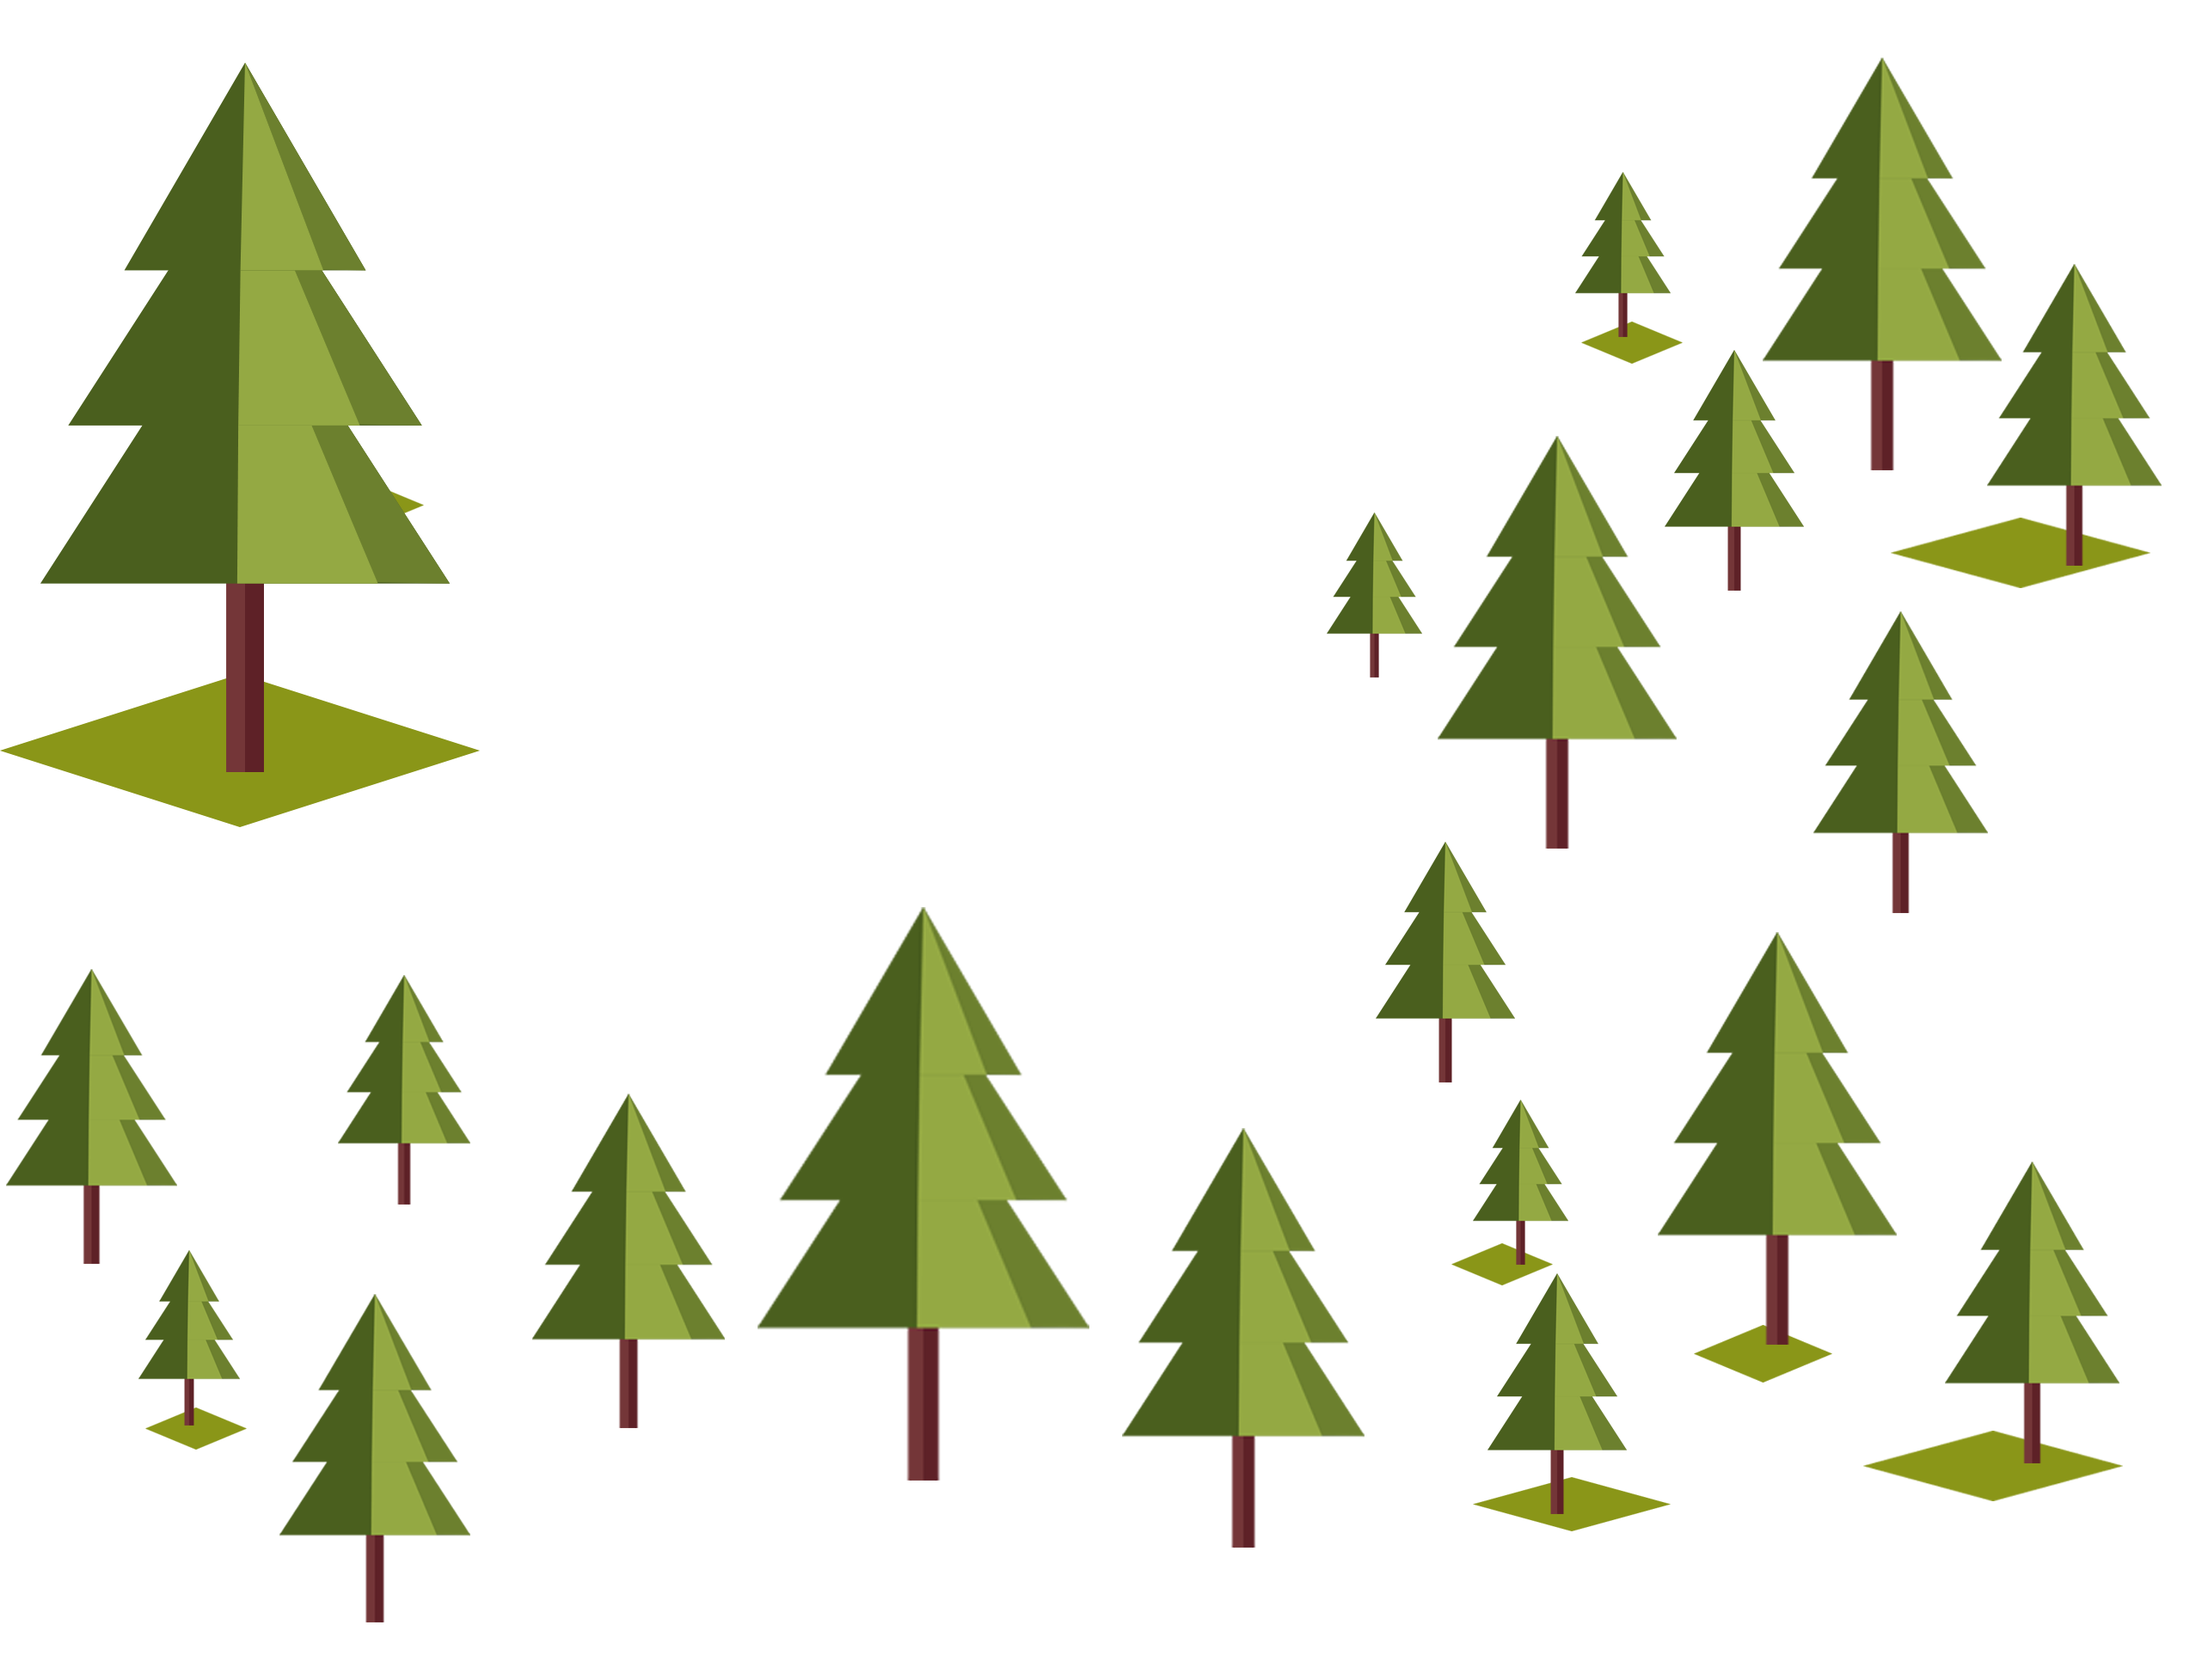
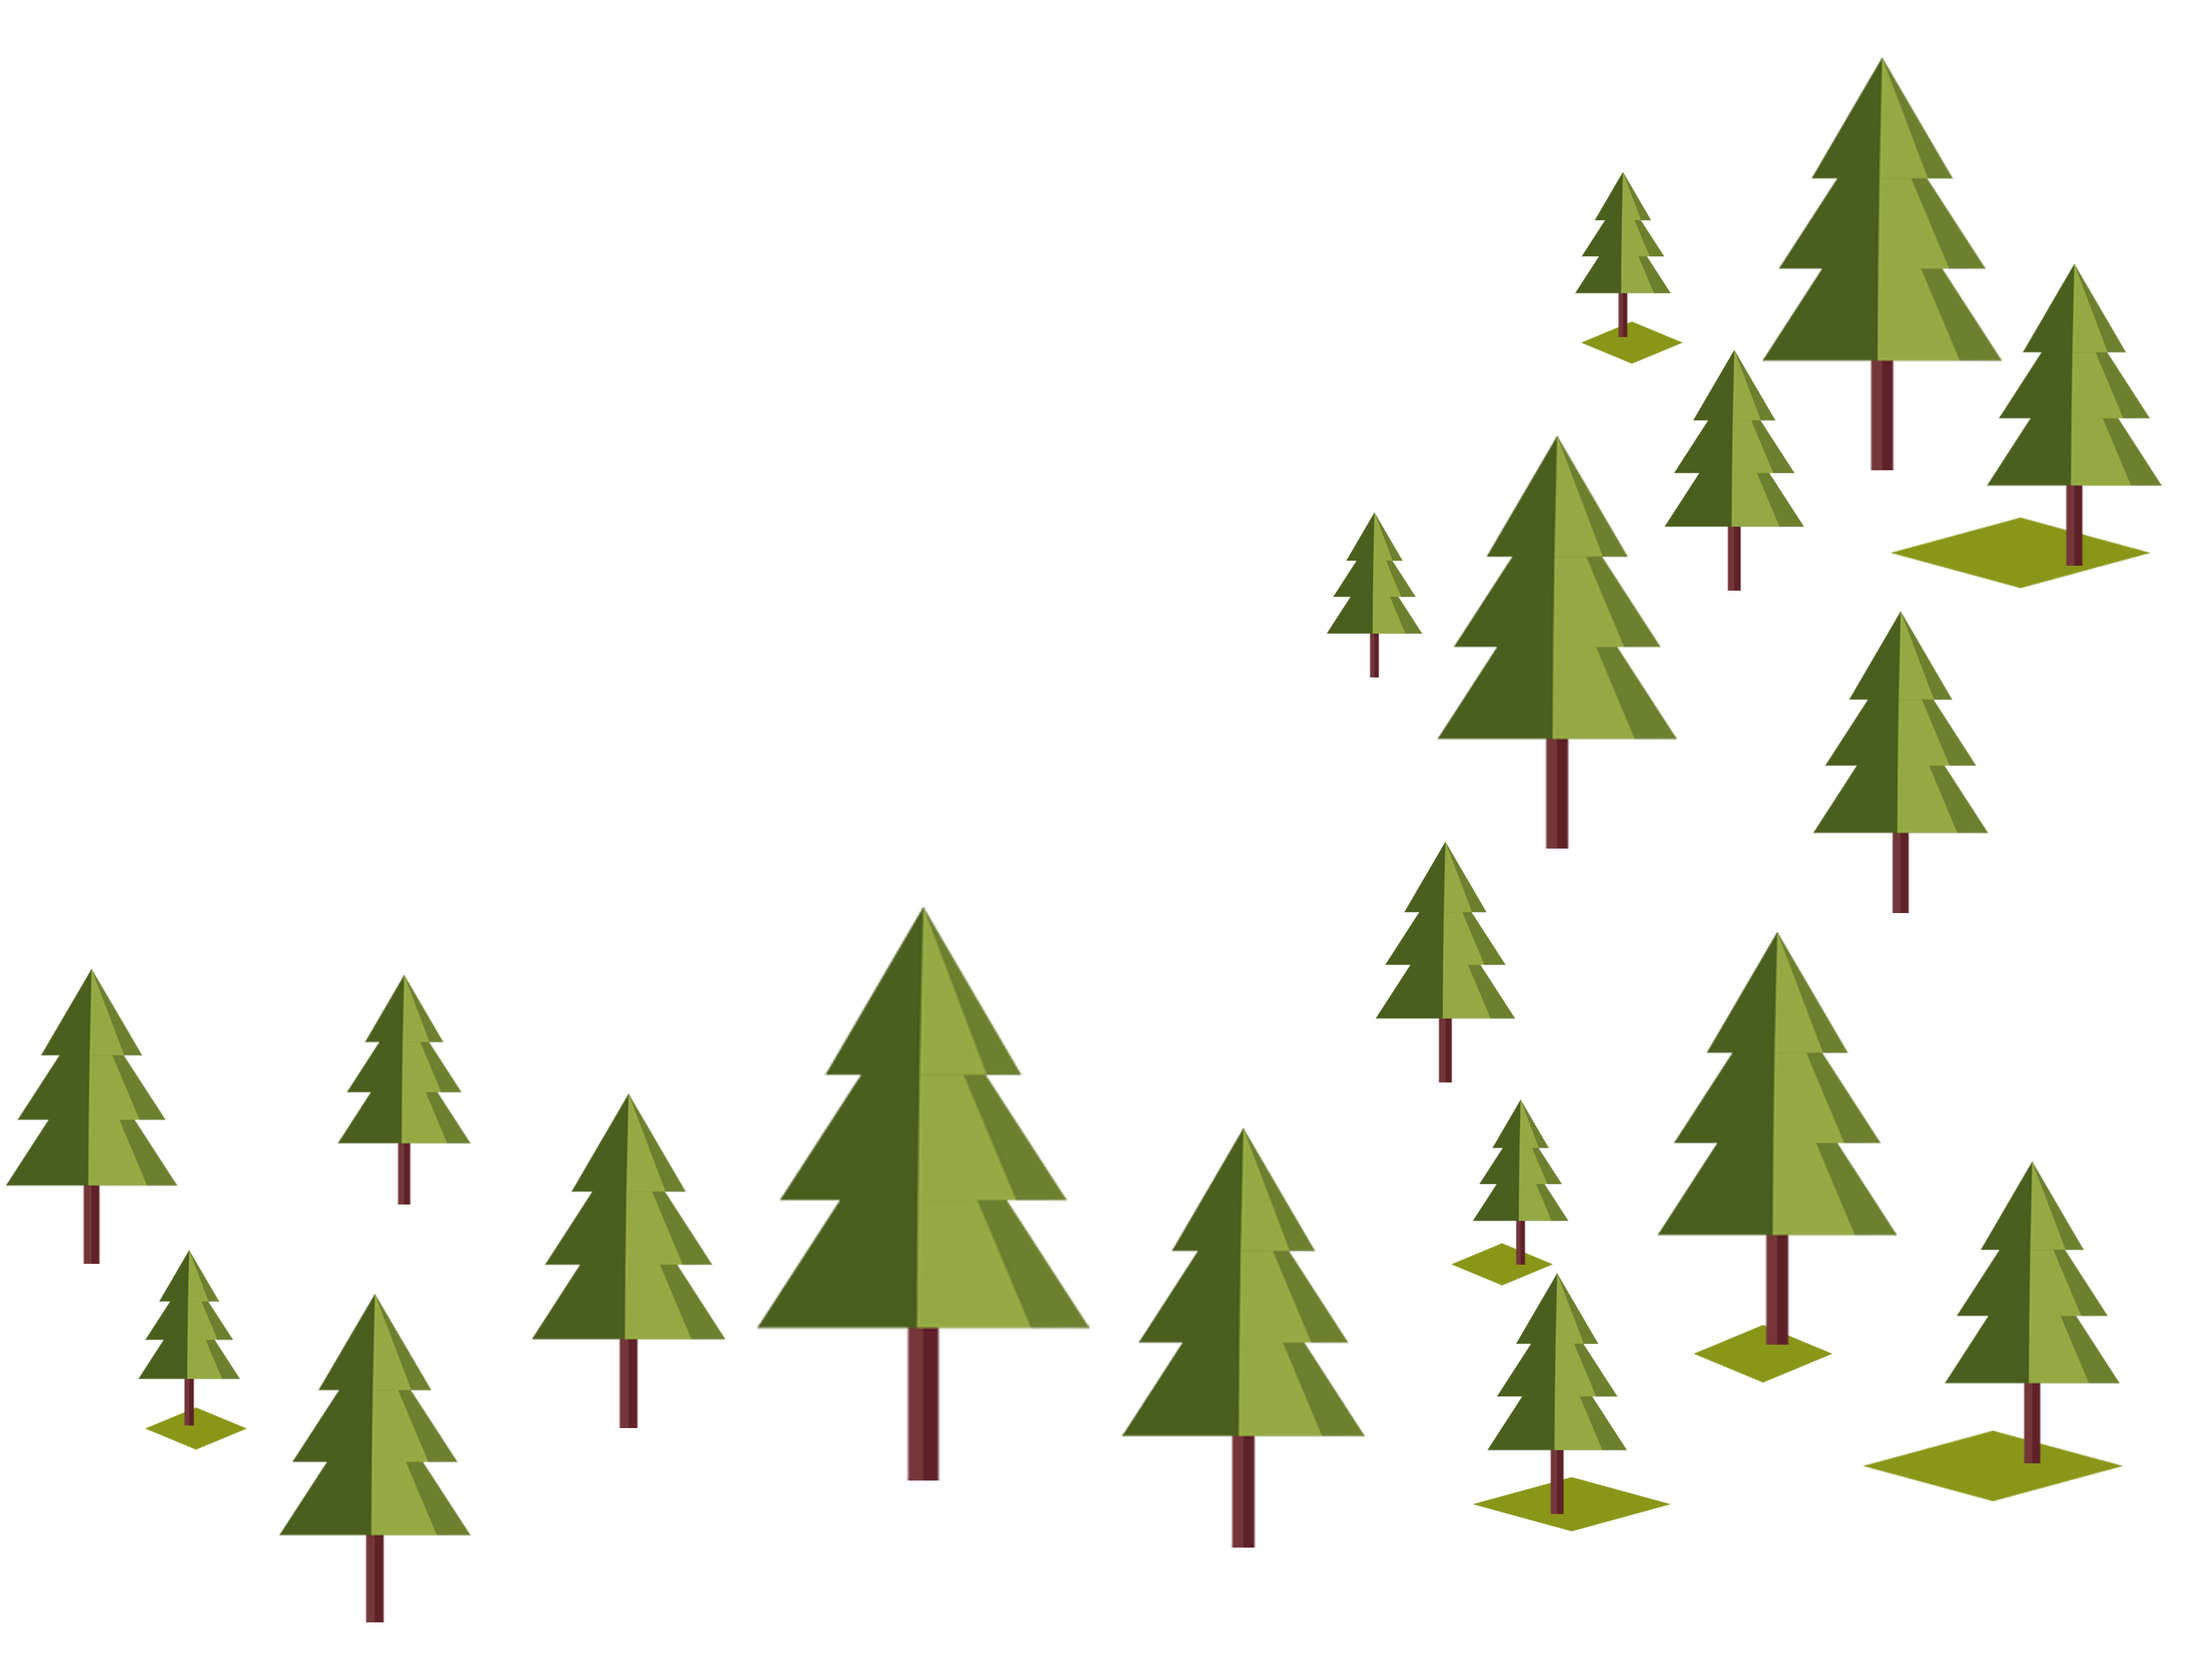
feat(src/about.jsx): improve transition from hero to tracks

Changed region(s): [[0.0, 0.0309, 0.2165, 0.4948]]

diff --git a/src/components/About.module.css b/src/components/About.module.css
@@ -7,20 +7,30 @@
 .aboutContainer {
   margin-top: 0;
   background-image: url('../assets/trees.png');
+  background-position-x: 10%;
+  background-position-y: center;
   background-size: auto 100%;
   background-repeat: none;
-  background-position: center top;
   height: 100vh;
   display: grid;
-  grid-template-columns: 2fr 5fr 2fr;
+  grid-template-columns: 2fr 8fr 2fr;
   grid-template-areas: '. aboutContent .';
 }
 
-@media screen and (min-width: 992px) {
+@media screen and (min-width: 580px) {
+  .aboutContainer {
+    background-image: url('../assets/trees-between.png');
+  }
+}
+
+@media screen and (min-width: 880px) {
   .aboutContainer {
     background-position-x: 10%;
-    background-size: 100% auto;
-    grid-template-columns: 3fr 4fr 5fr;
+    background-image: url('../assets/trees.png');
+    background-size: contain;
+    background-position: center;
+    background-repeat: no-repeat;
+    grid-template-columns: 2fr 4fr 5fr;
   }
 }
 
